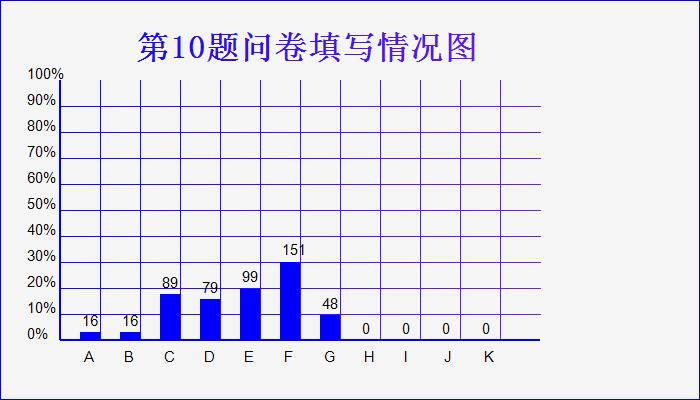
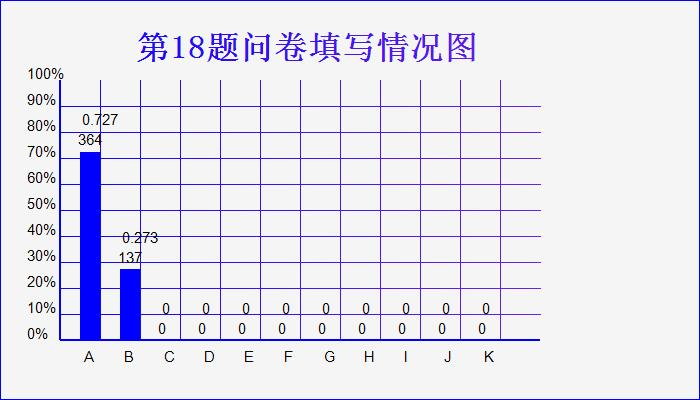
2017-3-10

diff --git a/Select.aspx.cs b/Select.aspx.cs
@@ -100,7 +100,8 @@ public partial class Select : System.Web.UI.Page
         {
             SolidBrush barbrush = new SolidBrush(Color.Blue);
             g.FillRectangle(barbrush, x2, 340 - 260 * ((float)checknum[i] / (float)sum), 20, 260 * ((float)checknum[i] / (float)sum));
-            g.DrawString(checknum[i].ToString(), font1, Brushes.Black, x2, 320 - 260 * ((float)checknum[i] / (float)sum));
+            g.DrawString(checknum[i].ToString(), font1, Brushes.Black, x2 - 4, 320 - 260 * ((float)checknum[i] / (float)sum));
+            g.DrawString(decimal.Round(decimal.Parse(((float)checknum[i] / (float)sum).ToString()), 3).ToString(), font1, Brushes.Black, x2, 300 - 260 * ((float)checknum[i] / (float)sum));
             x2 += 40;
         }
         image.Save(Server.MapPath("~/images/graph.jpeg"), ImageFormat.Jpeg);
